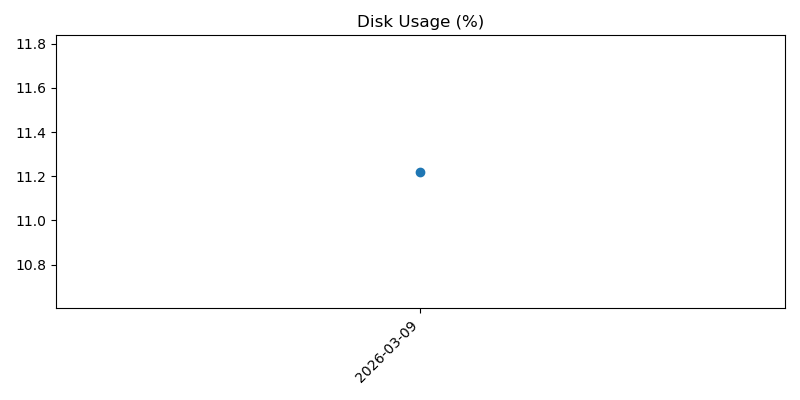
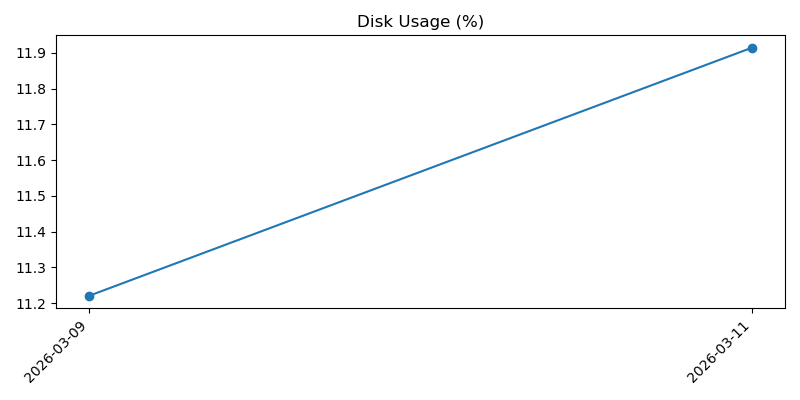
Add daily health and weather snapshot

diff --git a/2026-03.md b/2026-03.md
@@ -33,3 +33,37 @@
 - Overall: Good
 - Warning: None
 
+## 2026-03-11 09:36:45
+
+### Machine
+- Uptime: up 1 day, 15 hours, 57 minutes
+- CPU load (1m, 5m, 15m): 0.00, 0.00, 0.00
+- RAM used: 181 MB / 921 MB (19.7%)
+- Disk used (/): 3.4 GB / 28.8 GB (11.9%)
+- Free disk space (/): 24.1 GB
+- CPU temp: 35.4°C
+- Voltage / throttling: OK
+
+### Reachability
+- Internet check (1.1.1.1): Reachable (3.8 ms)
+
+### Weather
+- Madrid:
+  - Condition: Poco nuboso
+  - Max temp: 16°C
+  - Min temp: 5°C
+  - Feels like: 10°C
+  - Chance of rain: 0%
+  - Warnings: None reported
+- Barcelona:
+  - Condition: Nubes altas
+  - Max temp: 16°C
+  - Min temp: 9°C
+  - Feels like: 12°C
+  - Chance of rain: 5%
+  - Warnings: None reported
+
+### Health
+- Overall: Good
+- Warning: None
+
